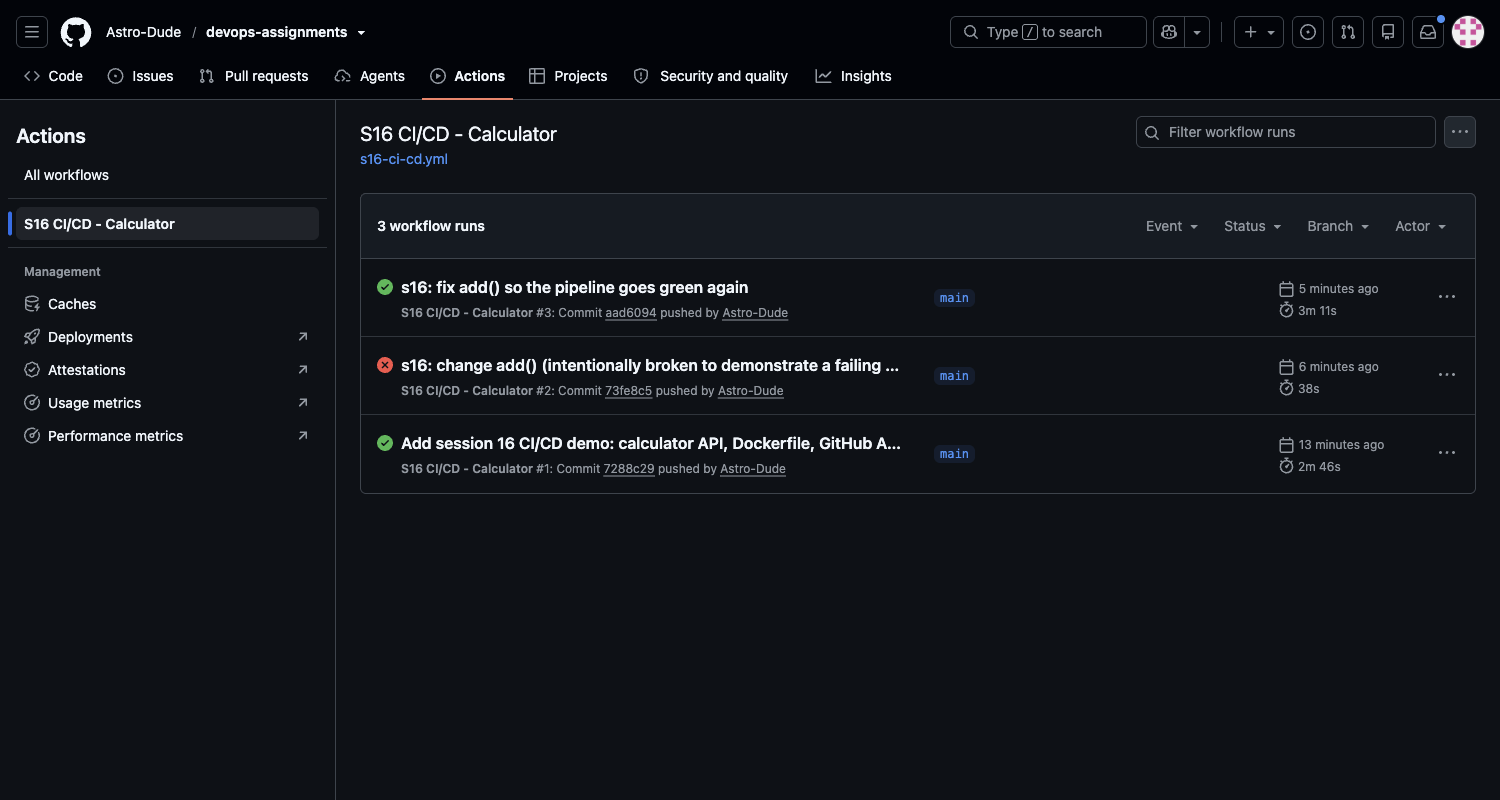
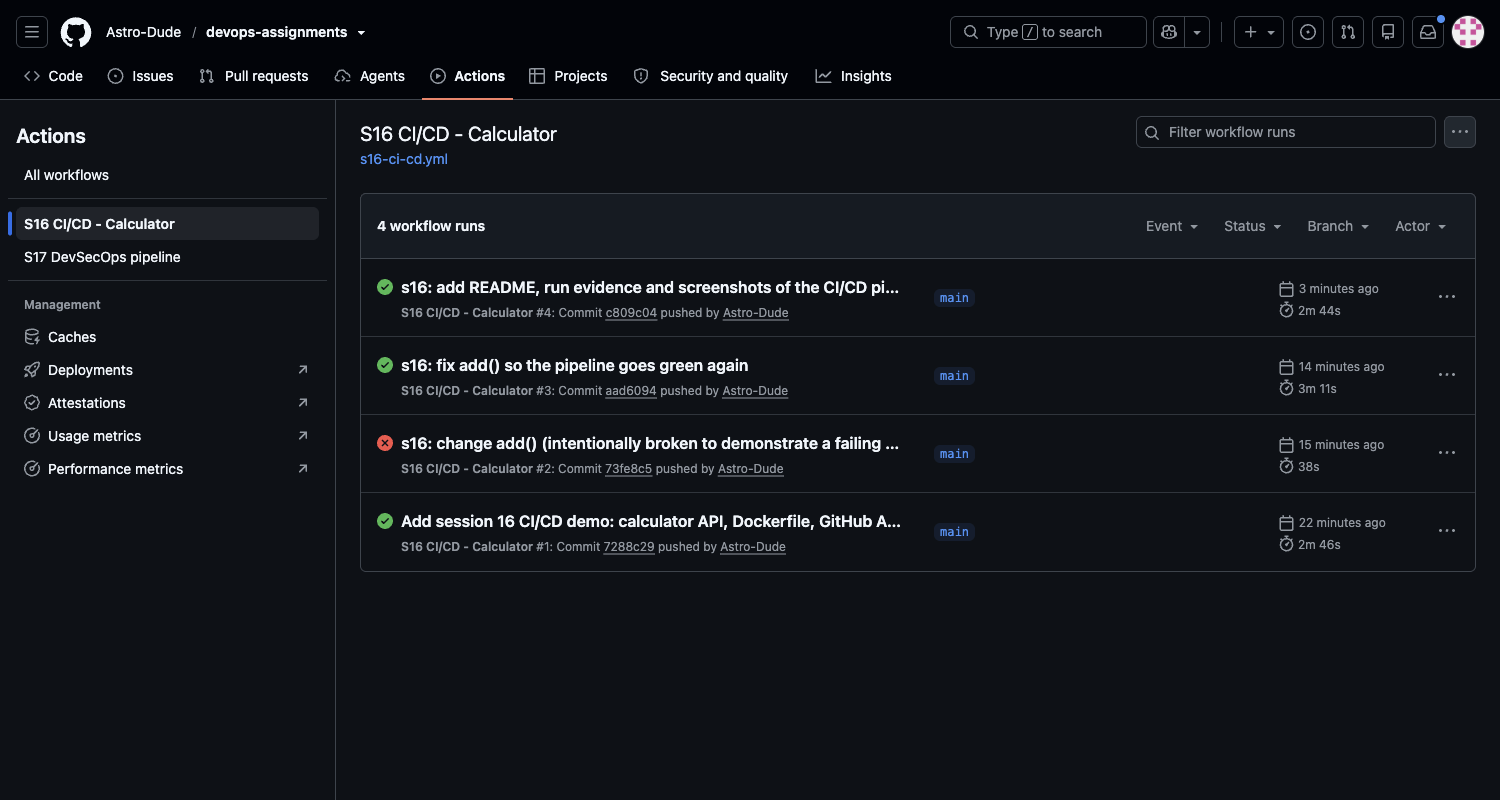
s16: record run #4 in README and evidence [skip ci]

diff --git a/DevOps/16-github-actions/README.md b/DevOps/16-github-actions/README.md
@@ -649,9 +649,13 @@ To show the gates working, the pipeline was run three times on purpose:
 2. `73fe8c5` — `add()` deliberately broken (`return a + b + 1`, the failure
    scenario from the reference README) → **red**.
 3. `aad6094` — `add()` restored → **green**, deployed again.
+4. `c809c04` — this README + evidence (a change under the folder, so the `paths:`
+   filter triggered it) → **green**, deployed again
+   ([`evidence/gh-run-view-37628519499.txt`](evidence/gh-run-view-37628519499.txt)).
 
 ```bash
 $ gh run list -R Astro-Dude/devops-assignments --workflow s16-ci-cd.yml
+completed	success	s16: add README, run evidence and screenshots of the CI/CD pipeline	S16 CI/CD - Calculator	main	push	37628519499	2m44s	2026-10-07T13:26:39Z
 completed	success	s16: fix add() so the pipeline goes green again	S16 CI/CD - Calculator	main	push	37627185543	3m11s	2026-10-07T13:16:19Z
 completed	failure	s16: change add() (intentionally broken to demonstrate a failing pipe…	S16 CI/CD - Calculator	main	push	37626976777	38s	2026-10-07T13:14:44Z
 completed	success	Add session 16 CI/CD demo: calculator API, Dockerfile, GitHub Actions…	S16 CI/CD - Calculator	main	push	37626090074	2m46s	2026-10-07T13:07:44Z
@@ -767,6 +771,7 @@ Push to `main` → 5 parallel test runners → security check and report → bui
 | [`evidence/gh-run-view-37626090074.txt`](evidence/gh-run-view-37626090074.txt) | run #1 (green) |
 | [`evidence/gh-run-view-37626976777.txt`](evidence/gh-run-view-37626976777.txt) | run #2 (intentional failure) |
 | [`evidence/gh-run-view-37627185543.txt`](evidence/gh-run-view-37627185543.txt) | run #3 (fixed, green) |
+| [`evidence/gh-run-view-37628519499.txt`](evidence/gh-run-view-37628519499.txt) | run #4 (README commit, green) |
 | [`evidence/run-37627185543-full.log`](evidence/run-37627185543-full.log) | complete logs of every job in run #3 (`gh run view --log`) |
 | [`evidence/run-37626976777-failed-test-log.txt`](evidence/run-37626976777-failed-test-log.txt) | the failing pytest step from run #2 |
 | [`evidence/artifacts-download.txt`](evidence/artifacts-download.txt) | `gh run download` of two artifacts |
